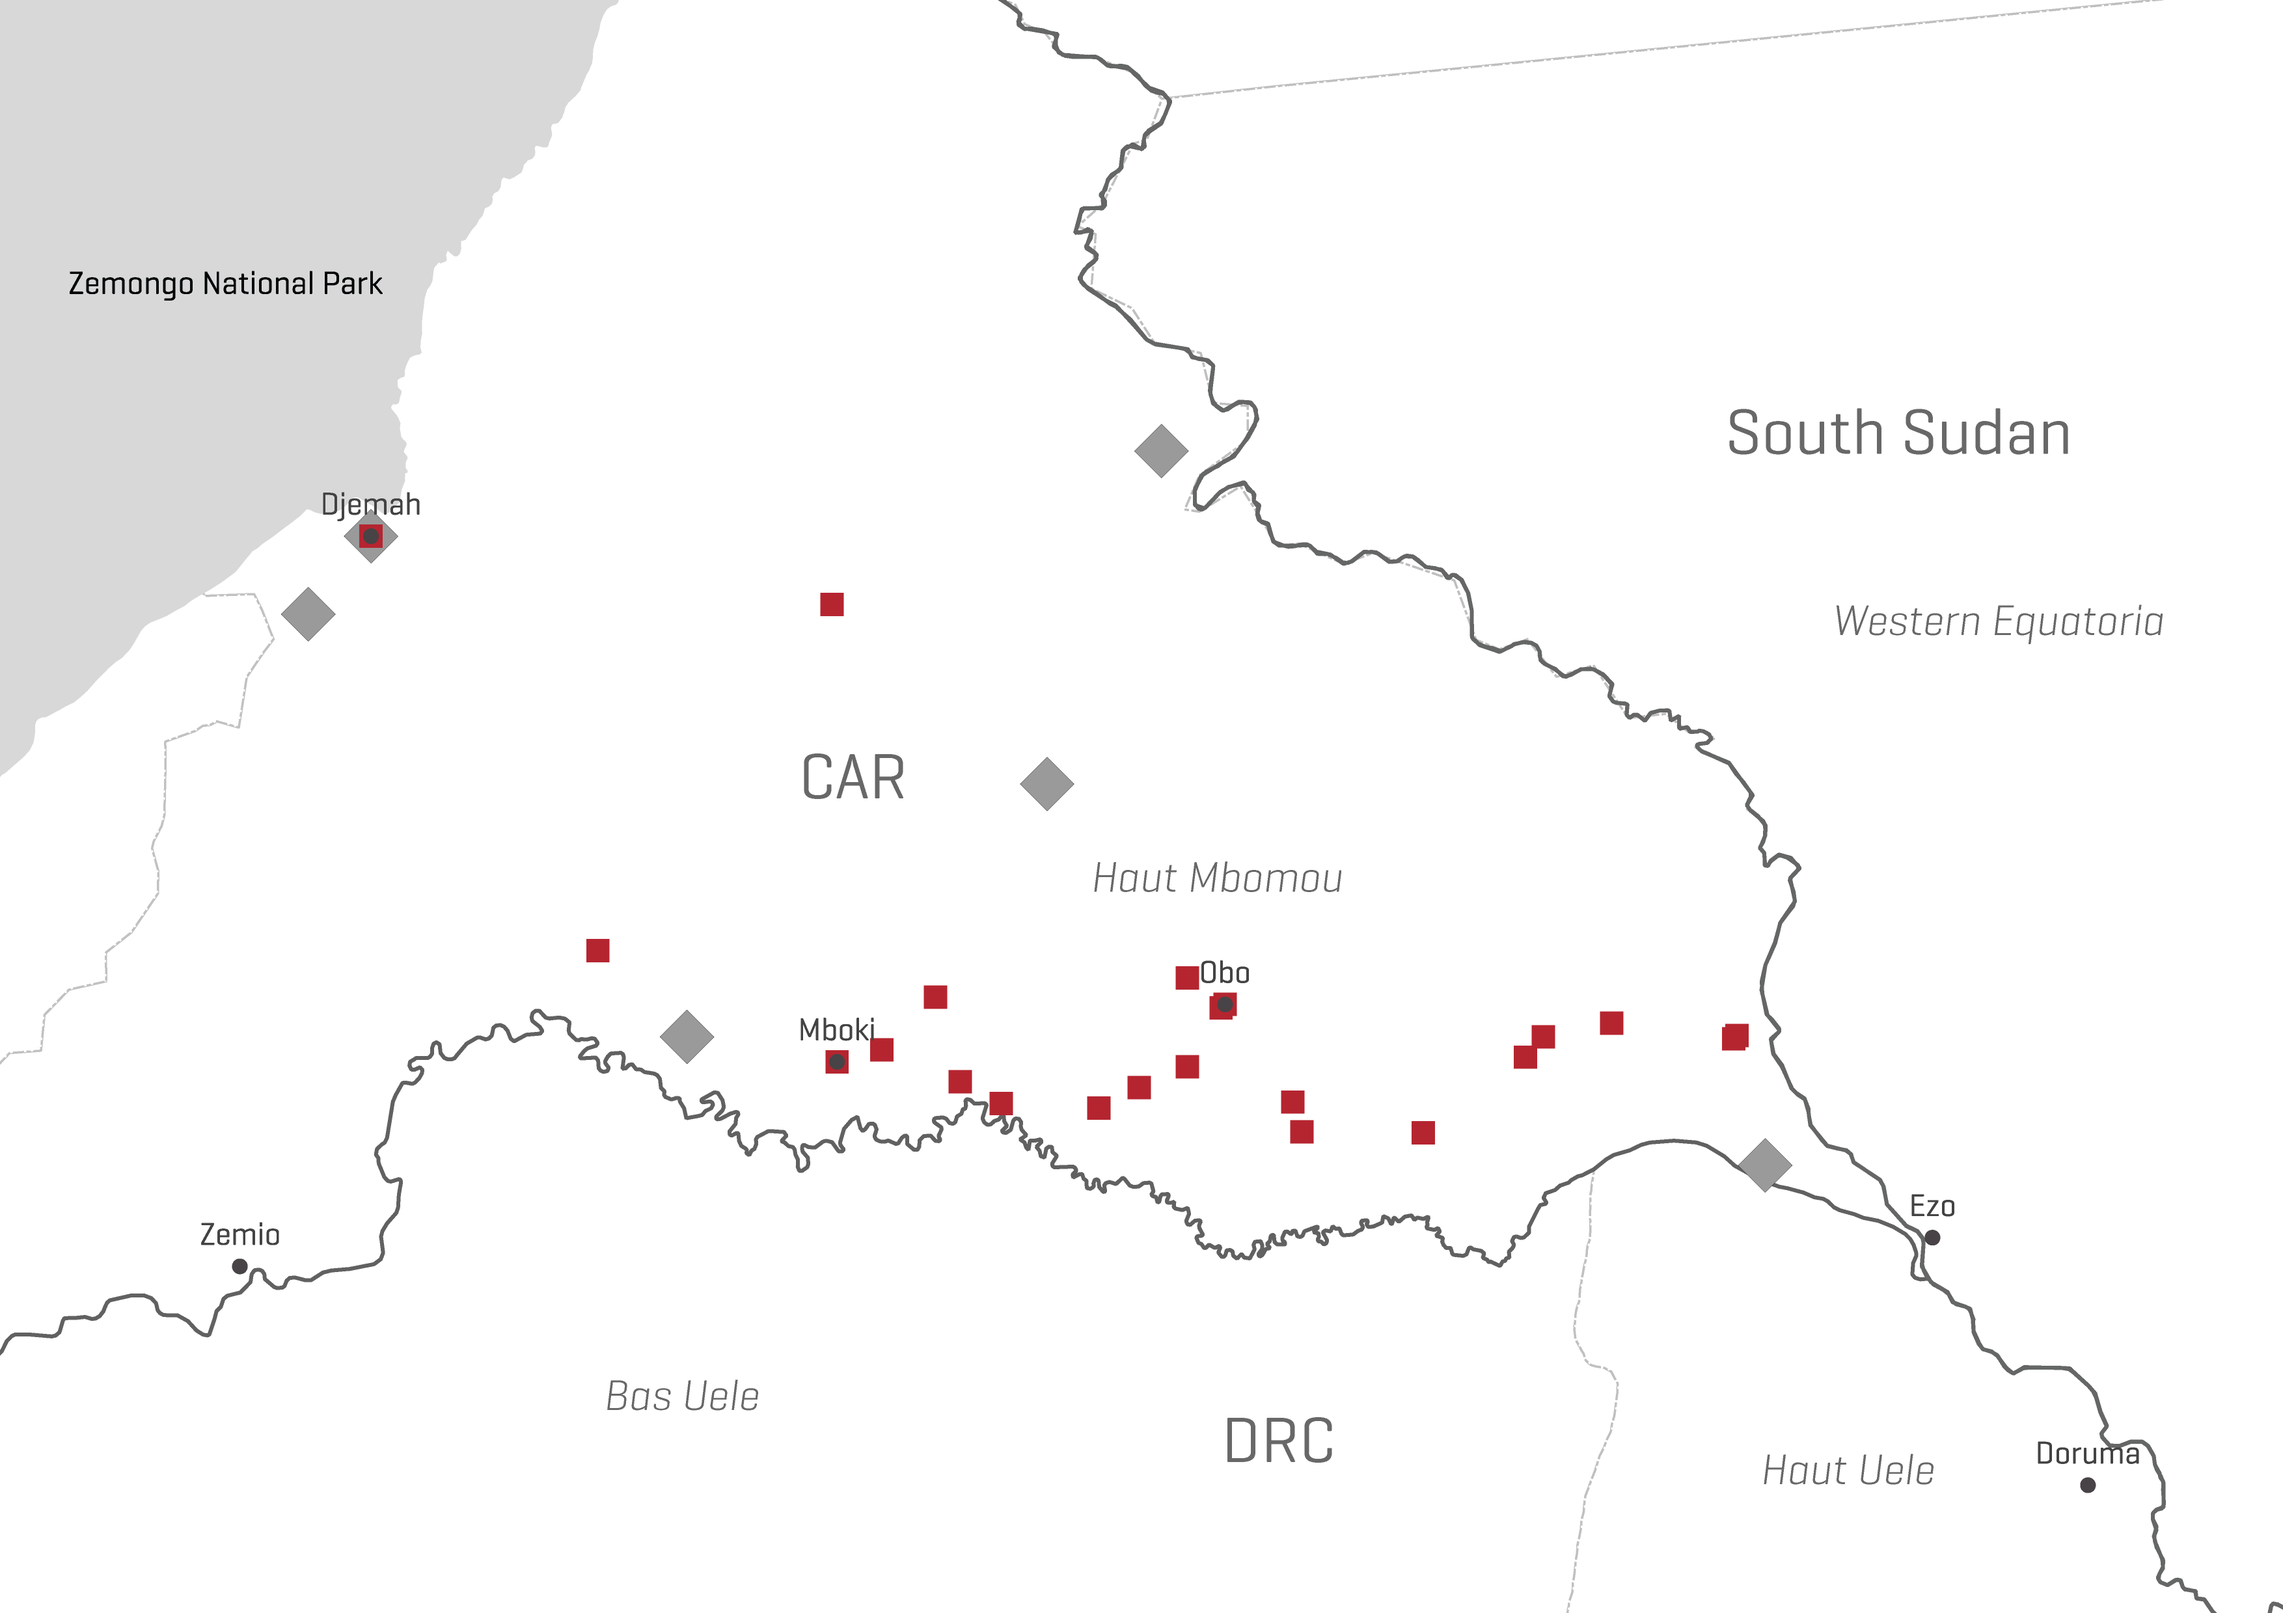
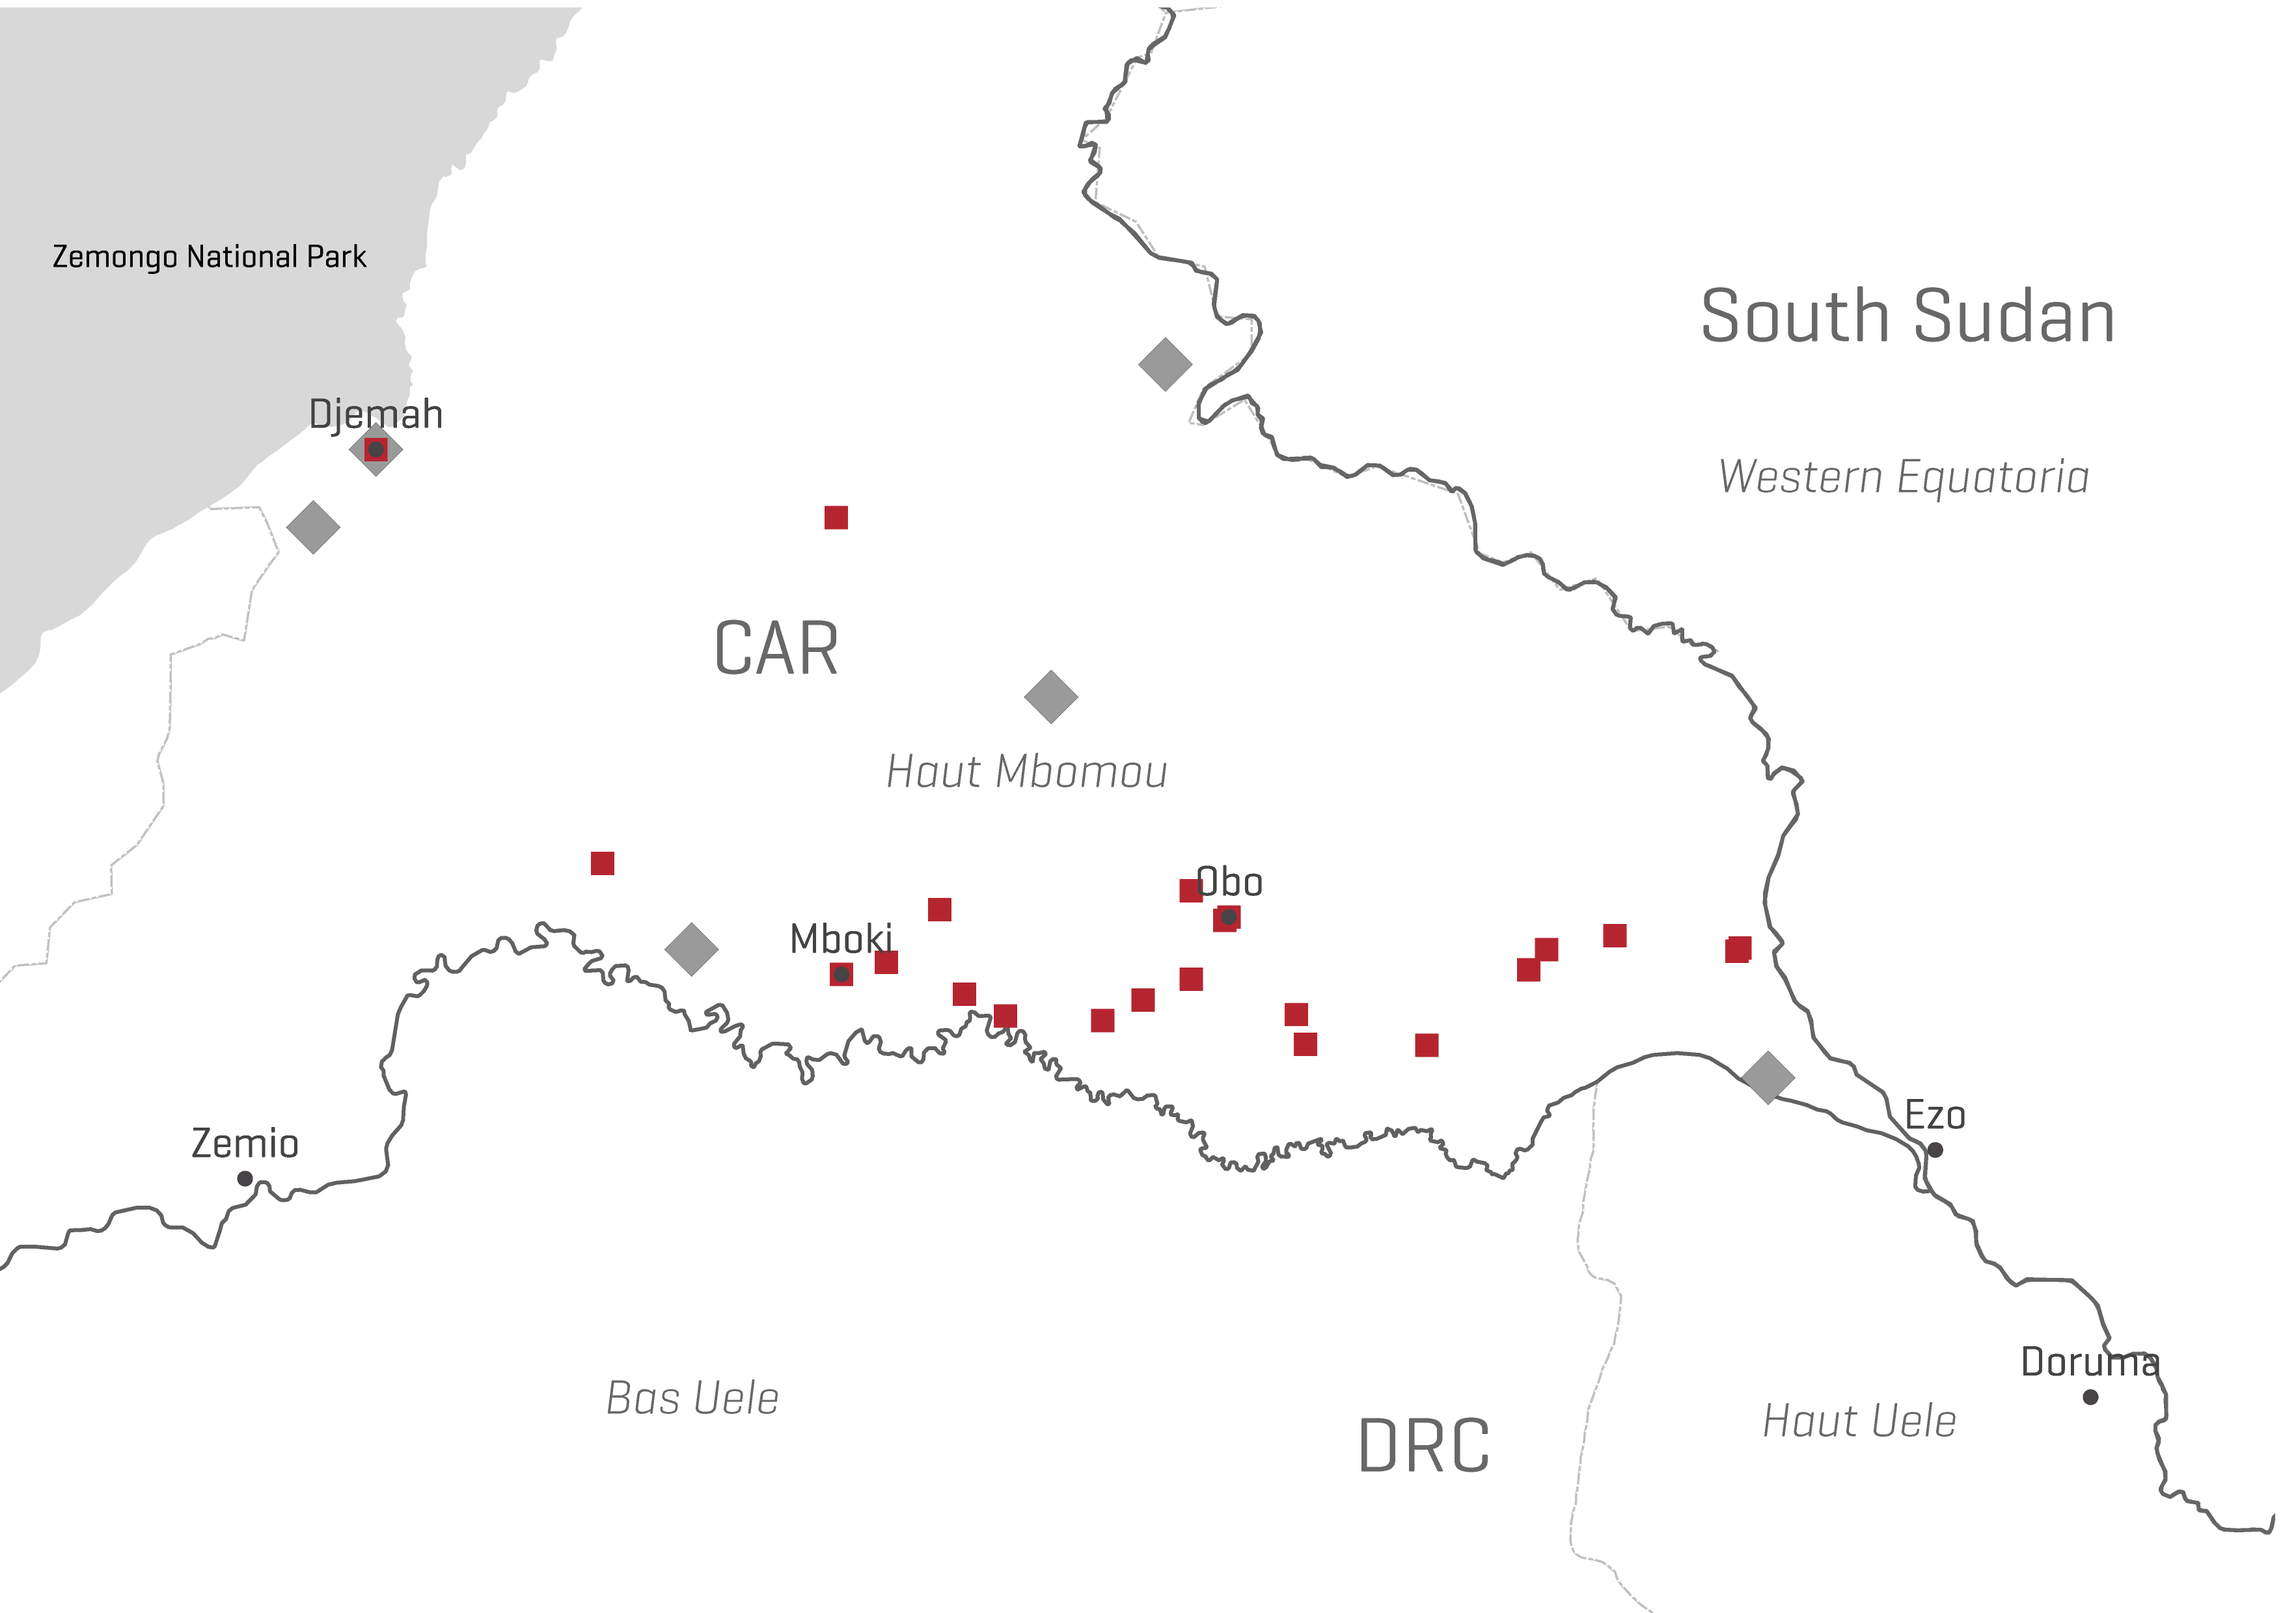
latest

diff --git a/en/tracking-kony/index.html b/en/tracking-kony/index.html
@@ -29,7 +29,7 @@ lang: en
     <img src="/images/tracking-kony/kony-locations.png" class="tracking-kony-main-visual" style="width: 100%;">
 </div>
 <div class="container">
-  <div class="tracking-kony-images col-md-7">
+  <div class="tracking-kony-images col-md-8">
 
     <div class="tracking-kony-visual-container" id="tracking-kony-visual-0">
       <img src="/images/tracking-kony/0-kony.jpg" class="tracking-kony-visual">
@@ -220,7 +220,7 @@ lang: en
   <span id="tracking-kony-break-header"></span>
   <span id="tracking-kony-break-0" class="tracking-kony-number"></span>
 
-  <div class="tracking-kony-text col-md-5">
+  <div class="tracking-kony-text col-md-4">
 
     <h3 class="tracking-kony-section-title">Executive Summary</h3>
     <p>Joseph Kony’s rise from humble beginnings to becoming one of the world’s most infamous war criminals has spanned the tenures of five US presidents and taken him across a vast swath of east and central Africa. Despite being the subject of countless media reports he has remained an elusive figure, spurning the outside world and isolating himself in remote jungle hideouts. This has been especially true since 2008, when he had his last confirmed communication with anyone outside of the Lord’s Resistance Army (LRA).<span id="tracking-kony-break-26" class="tracking-kony-number"><i class="fa fa-asterisk"></i></span></p>

diff --git a/css/main.scss b/css/main.scss
@@ -497,18 +497,18 @@ background-color: rgb(25, 68, 112);
 
 .tracking-kony-text {
   margin-top: 161px;
-  font-size: 17px;
+  font-size: 15px;
   margin-bottom: 400px;
 }
 
 .tracking-kony-visual-container {
   position: fixed; 
-  top: 120px;
-  width: 550px;
+  top: 80px;
+  width: 650px;
 }
 
 .tracking-kony-visual {
-  width: 550px;
+  width: 650px;
   border: 1px solid #e7e7e7;
 }
 
